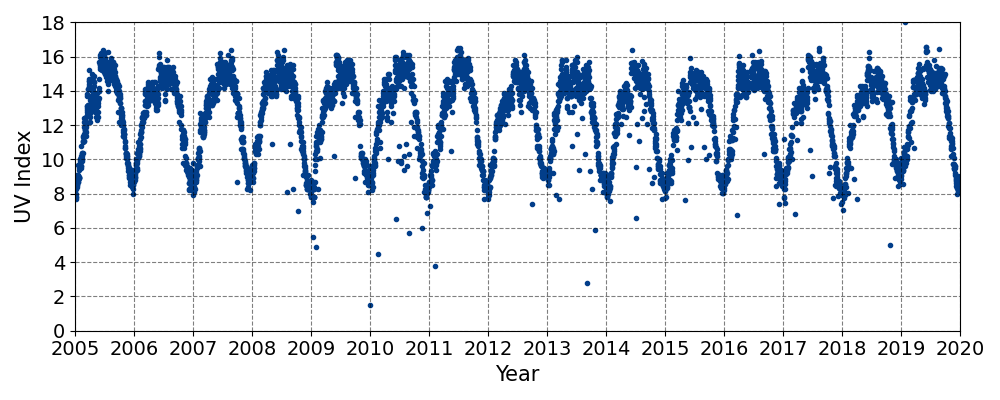
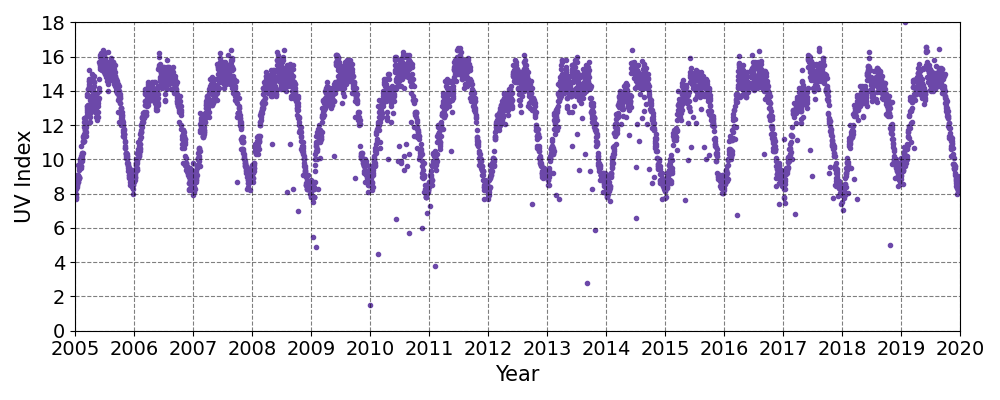
Update graphics

Changed region(s): [[0.062, 0.12, 0.961, 0.54], [0.403, 0.57, 0.434, 0.6]]

diff --git a/Scripts/Graphics_omi_data.py b/Scripts/Graphics_omi_data.py
@@ -51,7 +51,7 @@ def plot_data(data,  date_initial, date_final, path, name, fontsize=14):
     plt.xticks(dates, xtick,
                fontsize=fontsize)
     plt.scatter(data.index, data,
-                c="#023e8a",
+                c="#6C48A9",
                 marker=".")
     plt.ylim(0, 18)
     plt.yticks(np.arange(0, 20, 2),
